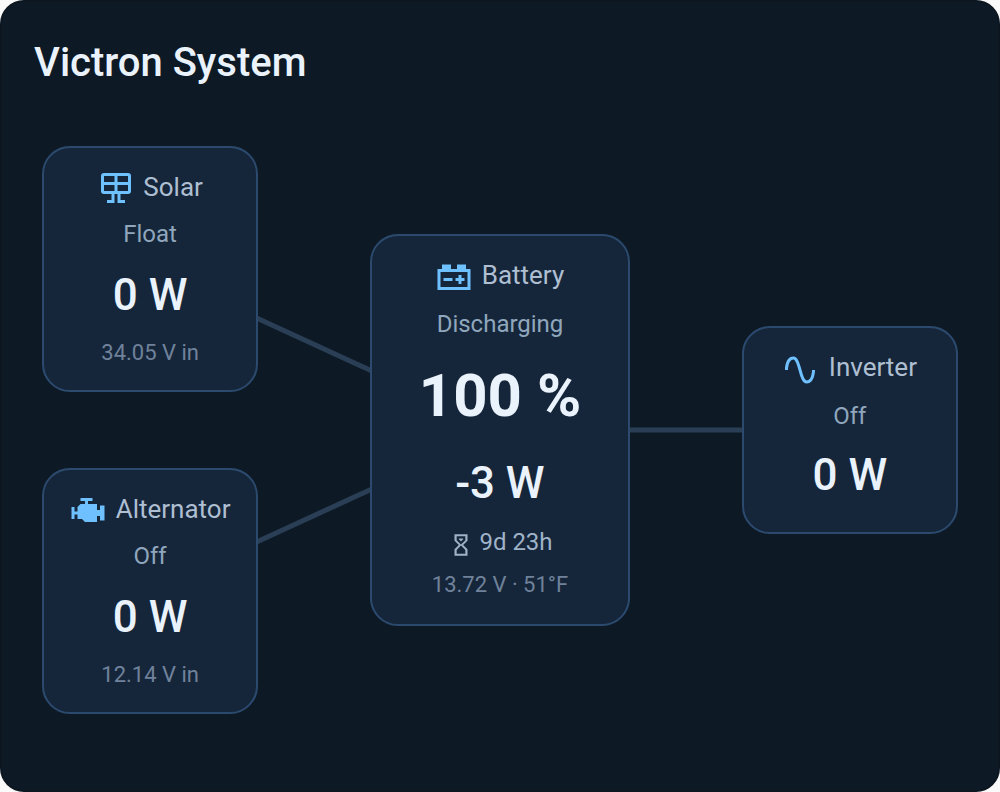
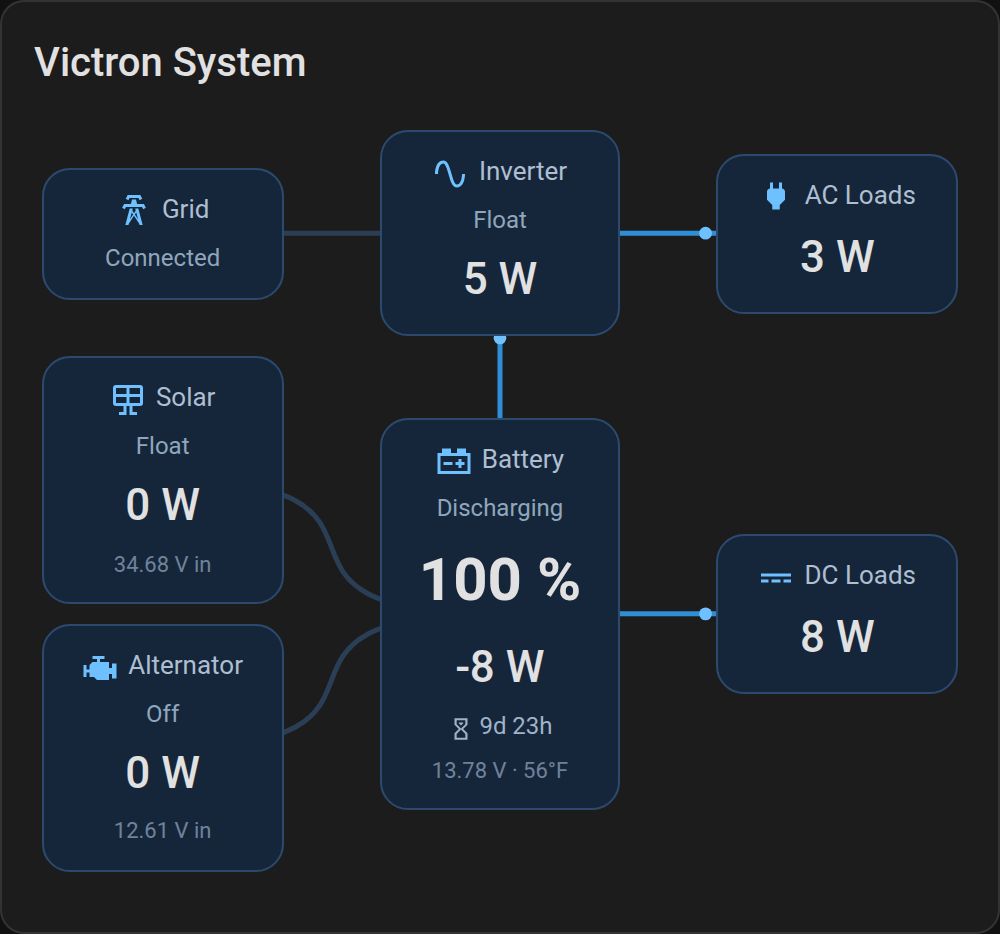
Sync tested charging controls, grid status and animation fixes

diff --git a/van-power-flow-card.js b/van-power-flow-card.js
@@ -25,7 +25,7 @@
  * Vanilla JS custom element — no build step. Config via YAML or the visual editor.
  */
 
-const VERSION = "1.2.0";
+const VERSION = "1.2.2-flow-animation";
 
 // Inverter/charger states that mean "charging the battery" (AC -> DC), used to
 // flip the battery<->inverter flow direction.
@@ -89,7 +89,16 @@ class VanPowerFlowCard extends HTMLElement {
   _has_val(id) { const s = this._st(id); return !!s && s.state !== "unavailable" && s.state !== "unknown"; }
   _stateStr(id) { const s = this._st(id); return s ? s.state : "—"; }
   _fmtW(w) { const a = Math.abs(w); return a >= 1000 ? (w / 1000).toFixed(1) + " kW" : Math.round(w) + " W"; }
-  _fmtState(s) { return (s || "").replace(/_/g, " "); }
+  _fmtState(s) {
+    return (s || "")
+      .replace(/_/g, " ")
+      .replace(/\b\w/g, (letter) => letter.toUpperCase());
+  }
+  _fmtGridState(s) {
+    if (["grid", "generator", "shore_power"].includes(s)) return "Connected";
+    if (s === "not_connected") return "Not Connected";
+    return this._fmtState(s);
+  }
   _fmtTtg(sec) {
     if (!sec || sec <= 0) return "—";
     const d = Math.floor(sec / 86400);
@@ -98,6 +107,37 @@ class VanPowerFlowCard extends HTMLElement {
     if (d > 0) return h > 0 ? `${d}d ${h}h` : `${d}d`;
     if (h > 0) return `${h}h ${m}m`;
     return `${m}m`;
+  }
+  // Consumed Ah is Victron's signed deficit from full (zero when full).
+  // Use net shunt current so running loads are already deducted from charging.
+  _batteryTime() {
+    const b = this._config.battery;
+    const number = (id) => {
+      const state = this._st(id)?.state;
+      if (state == null || String(state).trim() === "") return null;
+      const value = Number(state);
+      return Number.isFinite(value) ? value : null;
+    };
+    const power = number(b.power), current = number(b.current);
+    const soc = number(b.soc), consumed = number(b.consumed_ah);
+    const charging = b.power ? power !== null && power > 0.5 : current !== null && current > 0.1;
+    const discharging = b.power ? power !== null && power < -0.5 : current !== null && current < -0.1;
+    if (charging) {
+      if (soc !== null && soc === 100) return { text: "Full", title: "Battery reports 100% state of charge" };
+      if (current === null || current <= 0.1 || consumed === null || consumed > 0 || (soc !== null && (soc < 0 || soc > 100))) {
+        return { text: "—", title: "Time to full needs valid consumed Ah and positive net battery current" };
+      }
+      if (consumed === 0) return { text: "Full", title: "Battery monitor reports no remaining amp-hour deficit" };
+      const seconds = -consumed / current * 3600;
+      return { text: `≈ ${seconds < 60 ? "<1m" : this._fmtTtg(seconds)} to full`,
+        title: "Estimated from consumed Ah ÷ net battery current; assumes the current rate continues. Charge taper and losses can extend the actual time." };
+    }
+    if (discharging || (!b.power && !b.current)) {
+      const seconds = number(b.time_to_go);
+      return { text: seconds !== null && seconds > 0 ? this._fmtTtg(seconds) : "—",
+        title: "Victron time to go at the current load (to the configured discharge floor)" };
+    }
+    return { text: soc === 100 && (power !== null || current !== null) ? "Full" : "—", title: "No net charge or discharge estimate available" };
   }
   _vinText(id) { return this._has_val(id) ? `${this._num(id).toFixed(2)} V in` : ""; }
 
@@ -128,7 +168,7 @@ class VanPowerFlowCard extends HTMLElement {
       if (cfg.power || cfg.state) rows.push(stateRow);
       if (cfg.soc) rows.push(`<div class="soc" data-f="battery-soc">— %</div>`);
       if (cfg.power) rows.push(powerRow);
-      if (cfg.time_to_go) rows.push(`<div class="sub" data-f="battery-ttg">—</div>`);
+      if (cfg.time_to_go || (cfg.consumed_ah && cfg.current)) rows.push(`<div class="sub" data-f="battery-ttg">—</div>`);
       if (cfg.voltage || cfg.temperature) rows.push(`<div class="sub dim" data-f="battery-va">—</div>`);
     } else if (key === "solar" || key === "alternator") {
       if (cfg.state) rows.push(stateRow);
@@ -201,18 +241,39 @@ class VanPowerFlowCard extends HTMLElement {
     this._wrap.style.gridTemplateColumns = this._gridCols;
     this._wrap.style.gridTemplateRows = this._gridRows;
     this._svg = this.shadowRoot.querySelector(".lines");
+    this._drawing = null;
     this._f = {};
     this.shadowRoot.querySelectorAll("[data-f]").forEach((el) => (this._f[el.dataset.f] = el));
 
-    // Click a node -> History panel of its relevant entities.
-    this.shadowRoot.querySelectorAll(".box").forEach((box) => {
-      box.addEventListener("click", () => this._history(this._historyEntities(box.dataset.node)));
-    });
+    this._bindNodeInteractions(this.shadowRoot.querySelectorAll(".box"));
 
     if (this._ro) this._ro.disconnect();
     this._ro = new ResizeObserver(() => this._draw());
     this._ro.observe(this._wrap);
     this._built = true;
+  }
+
+  // Tap a controlled node for mode controls; hold for history.
+  _bindNodeInteractions(boxes) {
+    boxes.forEach((box) => {
+      const node = box.dataset.node;
+      const cfg = this._config[node];
+      const modeEntity = cfg && cfg.mode;
+      if (!modeEntity) {
+        box.addEventListener("click", () => this._history(this._historyEntities(node)));
+        return;
+      }
+      let holdTimer = null, held = false;
+      const cancel = () => { if (holdTimer) { clearTimeout(holdTimer); holdTimer = null; } };
+      box.addEventListener("pointerdown", () => {
+        held = false;
+        holdTimer = setTimeout(() => { held = true; this._history(this._historyEntities(node)); }, 500);
+      });
+      box.addEventListener("pointerup", () => { cancel(); if (!held) this._moreInfo(modeEntity); });
+      box.addEventListener("pointerleave", cancel);
+      box.addEventListener("pointercancel", cancel);
+    });
+
   }
 
   _historyEntities(key) {
@@ -233,7 +294,10 @@ class VanPowerFlowCard extends HTMLElement {
     for (const k of ["grid", "solar", "alternator", "inverter", "ac_loads", "dc_loads"]) {
       if (!has[k]) continue;
       const cfg = c[k];
-      if (cfg.state) this._set(`${k}-state`, this._fmtState(this._stateStr(cfg.state)));
+      if (cfg.state) {
+        const state = this._stateStr(cfg.state);
+        this._set(`${k}-state`, k === "grid" ? this._fmtGridState(state) : this._fmtState(state));
+      }
       if (cfg.power) this._set(`${k}-power`, this._fmtW(this._num(cfg.power)));
       if ((k === "solar" || k === "alternator") && cfg.input_voltage) {
         this._set(`${k}-vin`, this._vinText(cfg.input_voltage));
@@ -251,8 +315,10 @@ class VanPowerFlowCard extends HTMLElement {
     }
     if (b.soc) this._set("battery-soc", Math.round(this._num(b.soc)) + " %");
     if (b.power && f["battery-power"]) this._set("battery-power", this._fmtW(bp));
-    if (b.time_to_go && f["battery-ttg"]) {
-      f["battery-ttg"].innerHTML = `<ha-icon class="mini" icon="mdi:timer-sand"></ha-icon>${this._fmtTtg(this._num(b.time_to_go))}`;
+    if (f["battery-ttg"]) {
+      const time = this._batteryTime();
+      f["battery-ttg"].innerHTML = `<ha-icon class="mini" icon="mdi:timer-sand"></ha-icon>${time.text}`;
+      f["battery-ttg"].title = time.title;
     }
     if (f["battery-va"]) {
       const parts = [];
@@ -334,13 +400,19 @@ class VanPowerFlowCard extends HTMLElement {
       paths += `<path id="${s.id}" class="line ${s.flow.active ? "on" : "off"}" d="${d}" />`;
       if (s.flow.active) {
         for (let i = 0; i < 3; i++) {
+          // Negative offsets start every particle on its path immediately.
+          // A future begin leaves the circle at the SVG origin until it starts.
           dots += `<circle r="3.2" class="dot">
-            <animateMotion dur="3.2s" begin="${(i * 3.2 / 3).toFixed(2)}s" repeatCount="indefinite" calcMode="linear">
-              <mpath href="#${s.id}" />
+            <animateMotion path="${d}" dur="3.2s" begin="${(-i * 3.2 / 3).toFixed(2)}s" repeatCount="indefinite" calcMode="linear">
             </animateMotion></circle>`;
         }
       }
     }
+    // HA sends unrelated state updates frequently. Keep the existing SVG (and
+    // its animation clock) when geometry, activity and direction are unchanged.
+    const drawing = `${w},${h}:${paths}${dots}`;
+    if (drawing === this._drawing) return;
+    this._drawing = drawing;
     this._svg.setAttribute("viewBox", `0 0 ${w} ${h}`);
     this._svg.setAttribute("width", w);
     this._svg.setAttribute("height", h);
@@ -408,6 +480,7 @@ const NODE_SCHEMAS = {
     { name: "soc", selector: SENSOR }, { name: "power", selector: SENSOR },
     { name: "voltage", selector: SENSOR }, { name: "current", selector: SENSOR },
     { name: "temperature", selector: SENSOR }, { name: "time_to_go", selector: SENSOR },
+    { name: "consumed_ah", selector: SENSOR },
     { name: "state", selector: SENSOR }],
   grid: [...COMMON, { name: "state", selector: SENSOR }, { name: "power", selector: SENSOR }],
   solar: [...COMMON, { name: "power", selector: SENSOR }, { name: "state", selector: SENSOR }, { name: "input_voltage", selector: SENSOR }],
@@ -435,6 +508,7 @@ const LABELS = {
   ac_loads: "AC Loads (optional)", dc_loads: "DC Loads (optional)",
   name: "Display name", icon: "Icon", soc: "State of charge (%)", power: "Power (W)",
   voltage: "Voltage (V)", current: "Current (A)", temperature: "Temperature",
+  consumed_ah: "Consumed amp-hours (Ah, negative deficit from full)",
   time_to_go: "Time to go (s)", state: "State / charge stage", input_voltage: "Input voltage (V)",
   mode: "Control entity (tap target)",
 };

diff --git a/README.md b/README.md
@@ -5,8 +5,8 @@
 [![License: MIT](https://img.shields.io/badge/license-MIT-blue?style=flat-square)](LICENSE)
 
 A compact, **battery-centric** power-flow card for Home Assistant. A central
-battery surrounded by up to three optional nodes — **solar**, **alternator**
-(relabel for grid / generator / shore), and **inverter / charger** — with
+battery surrounded by six optional nodes — **grid / shore**, **solar**,
+**alternator**, **inverter / charger**, **AC loads**, and **DC loads** — with
 animated flow lines, per-node state, and click-through history.
 
 Built for DC systems (vans, RVs, boats, off-grid) where the stock Energy
@@ -14,13 +14,13 @@ Distribution card's grid/solar/home model doesn't fit. Pure vanilla JS, **no
 build step**, themeable, with a visual editor.
 
 <p align="center">
-  <img src="docs/screenshot.png" alt="Van Power Flow Card" width="520">
+  <img src="docs/screenshot.png" alt="Updated Van Power Flow Card showing Grid connected, inverter, solar, alternator, battery, and AC/DC loads" width="620">
 </p>
 
 ## Features
 
-- 🔋 **Battery-centric layout** — battery in the middle; solar/alternator on the
-  left, inverter on the right.
+- 🔋 **Battery-centric layout** — battery in the middle; grid, solar and
+  alternator on the left, inverter above, and AC/DC loads on the right.
 - ➕ **Everything optional** — only the battery is required. Omit any node and it
   (with its flow line) disappears; the layout re-centers automatically.
 - 🌊 **Animated flow lines** — dots travel along active connections. The
@@ -29,9 +29,9 @@ build step**, themeable, with a visual editor.
 - 📊 **Per-node detail** — state / charge stage, signed wattage, input voltage
   (solar PV / alternator source); the battery also shows SoC %, time-to-go,
   voltage, and temperature.
-- 🕑 **Click for history** — tap any node to open Home Assistant's built-in
-  History panel (last 24 h by default) pre-loaded with that node's entities, with
-  the full timescale picker.
+- 🕑 **Controls and history** — tap a node with a configured `mode` entity to
+  open its controls; hold for 500 ms to open History. Nodes without a `mode`
+  entity open History on tap (last 24 h by default).
 - 🎛 **Visual editor** — configure it entirely in the HA card UI, no YAML
   required.
 - 🎨 **Themeable** — all colors are `--vpf-*` CSS variables.
@@ -60,6 +60,20 @@ build step**, themeable, with a visual editor.
 
 ## Configuration
 
+For Victron systems, use the GX system's active input source for the Grid node:
+
+```yaml
+grid:
+  state: sensor.gx_device_ac_active_input_source
+```
+
+The card displays `grid`, `generator`, and `shore_power` as **Connected**, and
+`not_connected` as **Not Connected**. The MultiPlus-specific active-input sensor
+can report `unknown` even while the GX system correctly reports the active source.
+
+Flow particles start spaced along their paths and keep animating through routine
+Home Assistant state updates; layout or flow changes redraw the paths.
+
 Add a card of type `custom:van-power-flow-card`. Use the **visual editor**, or
 YAML. Only the `battery` section is required.
 
@@ -87,18 +101,21 @@ battery:
   current: sensor.battery_current        # A
   temperature: sensor.battery_temp       # any unit
   time_to_go: sensor.battery_time_to_go  # seconds
+  consumed_ah: sensor.battery_consumed_amp_hours  # negative Ah deficit from full
   state: sensor.battery_state            # used only if `power` is unset
 solar:
   name: Solar
   icon: mdi:solar-panel
   power: sensor.pv_power
   state: sensor.solar_charger_state      # e.g. bulk / absorption / float
+  mode: switch.solar_charger_enabled     # optional tap target (more-info)
   input_voltage: sensor.pv_voltage       # panel voltage, shown as "N V in"
 alternator:                              # relabel freely (grid / generator / shore)
   name: Alternator
   icon: mdi:engine
   power: sensor.alternator_power
   state: sensor.dcdc_charger_state
+  mode: switch.dcdc_charger_enabled      # optional tap target (more-info)
   input_voltage: sensor.starter_battery_voltage
 inverter:
   name: Inverter
@@ -115,7 +132,8 @@ inverter:
 | **battery** *(required)* | `soc` | State of charge (%) |
 | | `power` | Power in W, **signed** (− = discharging). Drives the Charging/Discharging/Idle label. |
 | | `voltage` / `current` / `temperature` | Shown in the battery's detail line |
-| | `time_to_go` | Seconds; rendered like Victron VRM (floored, e.g. `9d 23h`) |
+| | `time_to_go` | Victron discharge time in seconds; rendered like `9d 23h` while discharging |
+| | `consumed_ah` | Signed consumed Ah (negative deficit from full). With `current` in net battery amps (positive when charging), shows `≈ 2h 30m to full` while charging. |
 | | `state` | Fallback status label when `power` is not set |
 | **solar / alternator** *(optional)* | `power` | Wattage (line is "active" when > 0) |
 | | `state` | State / charge stage label |
@@ -158,3 +176,26 @@ Override any of these CSS variables (e.g. via `card_mod` or a theme):
 ## License
 
 [MIT](LICENSE)
+
+### Charging time estimate
+
+The battery timer switches to an approximate time to full when net battery power
+is positive. Configure `battery.consumed_ah` and `battery.current` from the same
+battery monitor: `-consumed_ah / current` gives hours at the present net charge
+rate, including the effect of running loads. Zero or near-zero current and
+unavailable or invalid sensor values display `—`; a full battery displays `Full`.
+The estimate assumes the present rate continues. Charge taper, charge losses,
+changes in solar output or loads, and monitor calibration affect the actual time.
+Victron's discharge time-to-go remains in use when discharging and is measured
+to its configured discharge floor. No HA helper or restart is required.
+
+Run all regression checks with `node --test *.test.mjs`.
+
+### Manual deployment
+
+For an unreleased version, copy `van-power-flow-card.js` from this repository to
+your Home Assistant `config/www/` directory and register it as a JavaScript Module
+at `/local/van-power-flow-card.js?v=1.2.2`. When replacing an existing manual
+installation, update its resource URL's version query and refresh your browser.
+The charging timer, tap/hold controls and animation fixes are all in this file;
+no separate van-specific variant is required.
